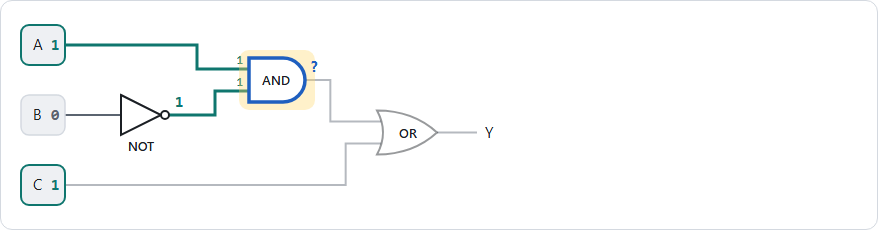
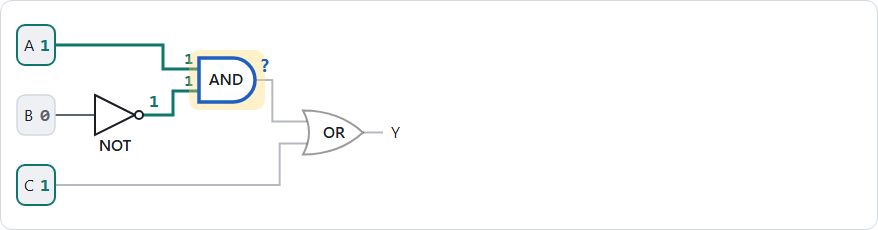
fix(circuit): 12 px text floor on phones via a compact layout (0.75x floor, 16-unit text)

diff --git a/src/interactions/CircuitDiagram/CircuitDiagram.tsx b/src/interactions/CircuitDiagram/CircuitDiagram.tsx
@@ -26,8 +26,12 @@ export interface CircuitDiagramProps {
   disabled?: boolean;
 }
 
-/** Smallest rendered scale (docs/DESIGN_SYSTEM.md): a three-column circuit fits a 390 px phone; below that the box scrolls sideways. */
-const MIN_SCALE = 0.6;
+/**
+ * Smallest rendered scale. All diagram text is 16 units or more, so at 0.75x it is still 12 px:
+ * the layout is compact enough for a three-column circuit to fit a 390 px phone at that scale.
+ * Narrower than that, the box scrolls sideways instead of shrinking the text.
+ */
+const MIN_SCALE = 0.75;
 
 /**
  * Small SVG circuit (up to 3 inputs, 4 gates) drawn like a textbook schematic: standard gate
@@ -134,10 +138,10 @@ export function CircuitDiagram({ id, spec, inputs, onToggleInput, lit = [], acti
             >
               {toggleable && <rect x="-12" y="-12" width={INPUT_W + 24} height={INPUT_H + 24} className={styles.hitArea} />}
               <rect width={INPUT_W} height={INPUT_H} rx="8" className={styles.inputBox} />
-              <text x="12" y="25" className={styles.label}>
+              <text x="7" y="26" className={styles.label}>
                 {inp.label}
               </text>
-              <text x="30" y="25" className={`${styles.value} ${v === 1 ? styles.valueHigh : styles.valueLow} mono`}>
+              <text x="23" y="26" className={`${styles.value} ${v === 1 ? styles.valueHigh : styles.valueLow} mono`}>
                 {v}
               </text>
             </g>

diff --git a/e2e/smoke.spec.ts b/e2e/smoke.spec.ts
@@ -162,6 +162,24 @@ test("logic gates activity: walk the circuit gate by gate, then explore inputs",
   await expect(page.getByText("Question 2 of 2")).toBeVisible();
 });
 
+test("circuit text stays at 12 px or more on a 390 px phone, with the whole circuit visible", async ({ page }) => {
+  await page.setViewportSize({ width: 390, height: 844 });
+  await page.goto("/courses/ecet111/logic-gates/predict-gate-output/");
+  await page.getByLabel("1", { exact: true }).check();
+  await page.getByRole("button", { name: "Check" }).click();
+  await expect(page.getByText("Gate 2 of 3: AND")).toBeVisible();
+  const report = await page.evaluate(() => {
+    const box = document.querySelector("[data-diagram]")!;
+    const svg = box.querySelector("svg")!;
+    const scale = svg.getBoundingClientRect().width / svg.viewBox.baseVal.width;
+    const sizes = [...svg.querySelectorAll("text")].map((t) => parseFloat(getComputedStyle(t).fontSize) * scale);
+    return { smallest: Math.min(...sizes), count: sizes.length, boxOverflow: box.scrollWidth - box.clientWidth };
+  });
+  expect(report.count).toBeGreaterThan(8);
+  expect(report.smallest).toBeGreaterThanOrEqual(12);
+  expect(report.boxOverflow).toBeLessThanOrEqual(0);
+});
+
 test("settings: clear local data resets progress", async ({ page }) => {
   await page.goto(ACTIVITY);
   await expect(page.getByTestId("learning-stage")).toBeVisible();

diff --git a/src/interactions/CircuitDiagram/layout.ts b/src/interactions/CircuitDiagram/layout.ts
@@ -32,17 +32,17 @@ export interface CircuitLayout {
 }
 
 export const GATE_H = 44;
-export const INPUT_W = 44;
+export const INPUT_W = 38;
 export const INPUT_H = 40;
-const INPUT_X = 8;
+const INPUT_X = 4;
 const ROW_H = 70;
-const COL_X0 = 108;
-const COL_W = 128;
+const COL_X0 = 82;
+const COL_W = 104;
 const PIN_DY = 11;
 const MIN_GATE_GAP = 64;
 /** A horizontal wire closer than this to a gate centre line would run through its body or label. */
 const BODY_CLEARANCE = 40;
-const OUTPUT_STUB = 40;
+const OUTPUT_STUB = 20;
 
 /** Distance from the left edge of the body to its output tip (bubble included). */
 export function gateWidth(type: GateType): number {
@@ -191,7 +191,7 @@ export function layoutCircuit(spec: CircuitSpec): CircuitLayout {
   ];
   const top = Math.min(...ys) - 12;
   const bottom = Math.max(...ys) + 12;
-  const right = Math.max(output.to.x + 48, ...spec.gates.map((g) => gates[g.id].x + gateWidth(g.type) + 28));
+  const right = Math.max(output.to.x + 44, ...spec.gates.map((g) => gates[g.id].x + gateWidth(g.type) + 28));
 
   return {
     viewBox: { x: 0, y: top, width: right, height: bottom - top },

diff --git a/src/interactions/CircuitDiagram/CircuitDiagram.module.css b/src/interactions/CircuitDiagram/CircuitDiagram.module.css
@@ -14,7 +14,7 @@
   height: auto;
   display: block;
   font-family: var(--font-sans);
-  font-size: 15px;
+  font-size: 16px;
 }
 
 .root[data-fade="end"] {
@@ -105,7 +105,6 @@
   fill: var(--text);
 }
 
-/* Values are the thing to read: larger than labels so they survive the 0.6x phone scale. */
 .value {
   font-size: 18px;
   font-weight: 700;
@@ -147,7 +146,7 @@
 
 .gateLabel {
   fill: var(--text);
-  font-size: 13px;
+  font-size: 16px;
   font-weight: 600;
   pointer-events: none;
 }

diff --git a/docs/DESIGN_SYSTEM.md b/docs/DESIGN_SYSTEM.md
@@ -62,5 +62,5 @@ Evidence: `docs/design/review-2026-10-03/`. Each row is adopted by the issue tha
 - **Sticky tutor below `lg`:** a one- or two-line strip (avatar 32 px, text clamped, tap to expand) capped at `--tutor-strip-h`. When the viewport is under 500 px tall the tutor is not sticky at all.
 - **DivisionChain is a vertical ladder at all widths** (matches the Chapter 1 slide; #53). Each row has `2 |`, the number and its remainder; the quotient is typed into the next row down. The active row gets `--focus-halo`. In the read-off step an upward arrow beside the remainders runs from MSB (bottom) to LSB (top).
 - **Horizontal steppers on phones** (future bit rows): the active column is always scrolled into view, and a fade edge shows there is more content.
-- **Diagrams must fit at 390 px** down to 0.6× scale before horizontal scrolling is allowed; the output (Y) must always be visible.
+- **Diagram text never renders below 12 px** (Technical Lead, #73). Fit a 390 px phone by compacting the layout, not by shrinking text: diagram text is 16 units, so the scale floor is 0.75×. If a diagram still does not fit, it scrolls inside its box with a fade edge and the active part in view.
 - **Base notation** is marked up as `<sub>` with `--sub-size`, never Unicode subscript digits, so screen readers and fallback fonts read it correctly.

diff --git a/src/interactions/CircuitDiagram/README.md b/src/interactions/CircuitDiagram/README.md
@@ -23,6 +23,7 @@ drawn like a textbook schematic: standard gate symbols, one pin per gate input, 
   channel, so wires of different signals never share a segment; a signal that feeds two gates
   shows a junction dot; a wire that would pass through a gate is moved to a free lane.
   `layout.test.ts` asserts these rules on several circuits.
-- The SVG scales with its box down to 0.6× (a three-column circuit fits a 390 px phone). Below
-  that the box scrolls sideways, fades the hidden edge(s), becomes keyboard-focusable and keeps the
-  active gate in view. Toggleable inputs have an enlarged hit area.
+- Text never renders below 12 px: all diagram text is 16 units and the SVG scales with its box
+  down to 0.75× only. The layout is compact so a three-column circuit fits a 390 px phone at that
+  scale. Narrower, the box scrolls sideways, fades the hidden edge(s), becomes keyboard-focusable
+  and keeps the active gate in view. Toggleable inputs have an enlarged hit area.
